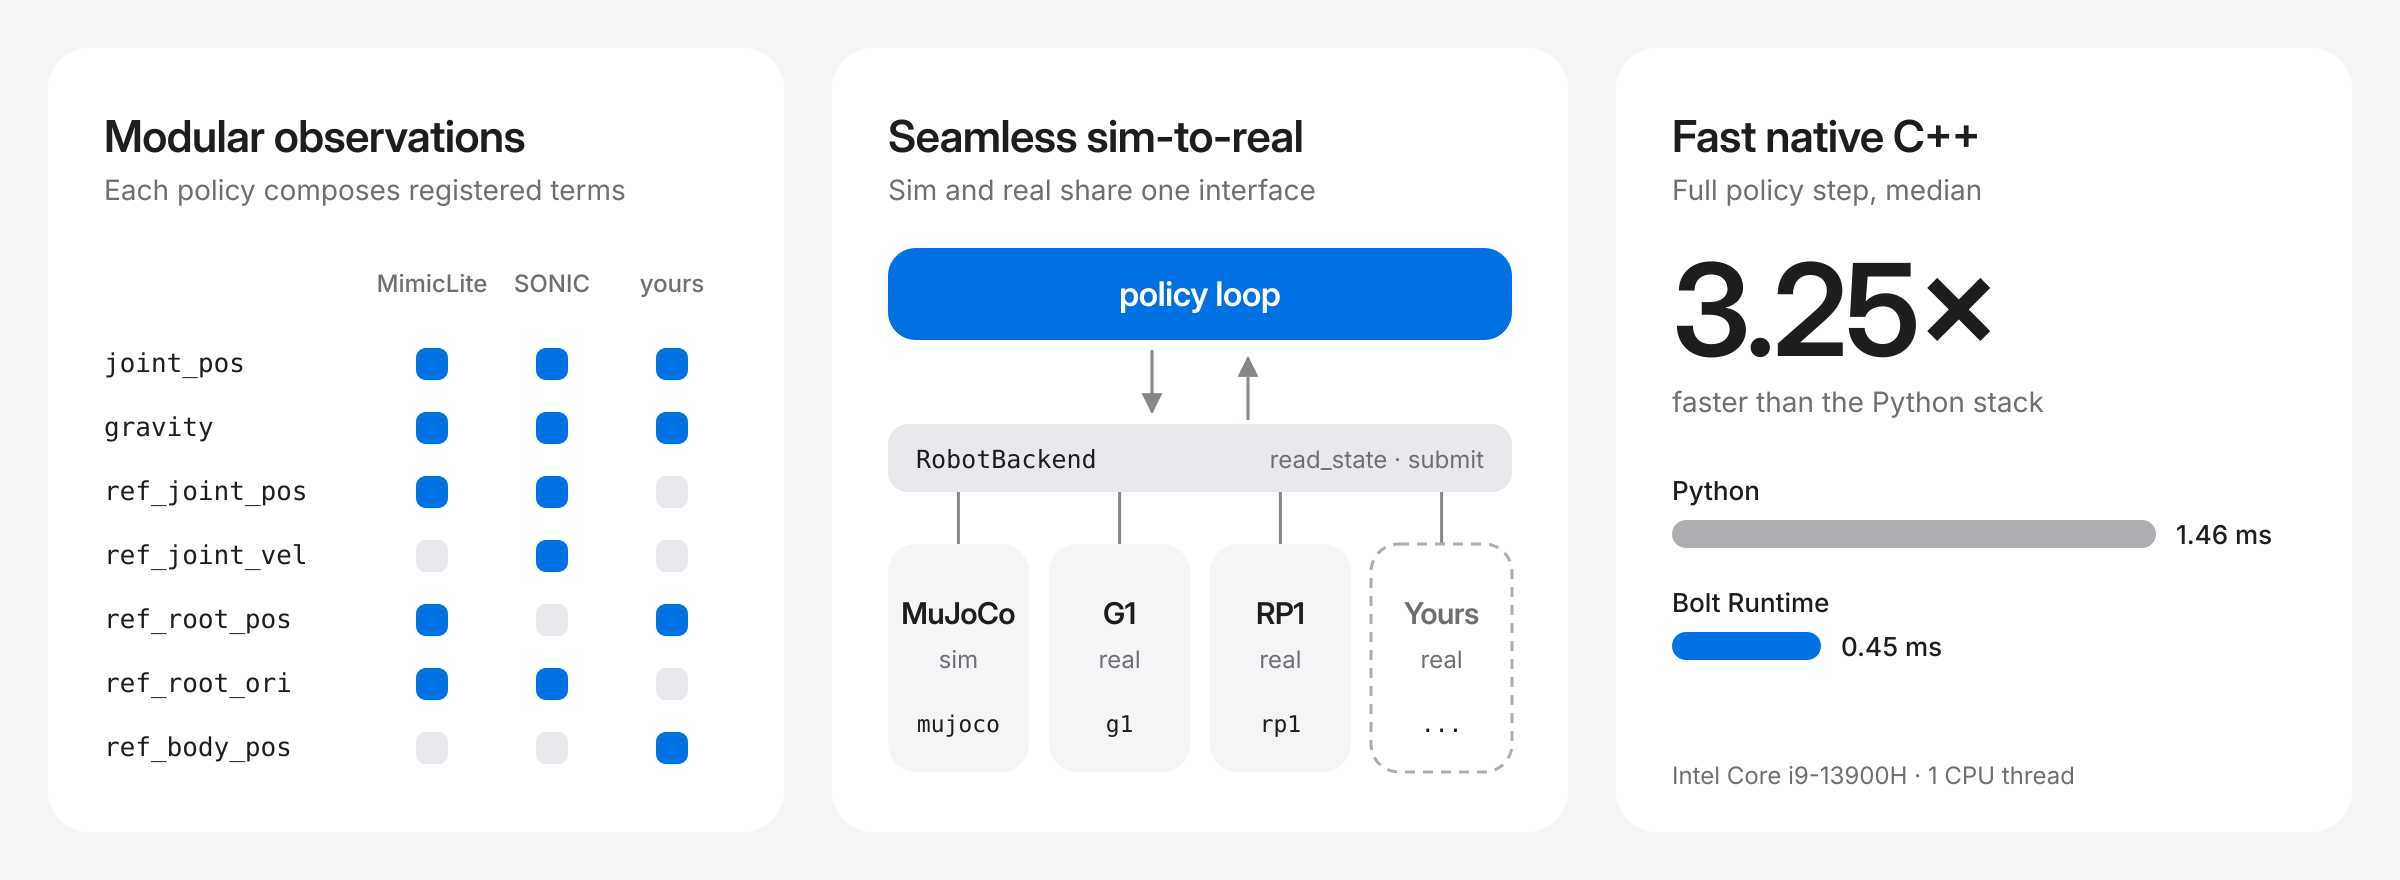
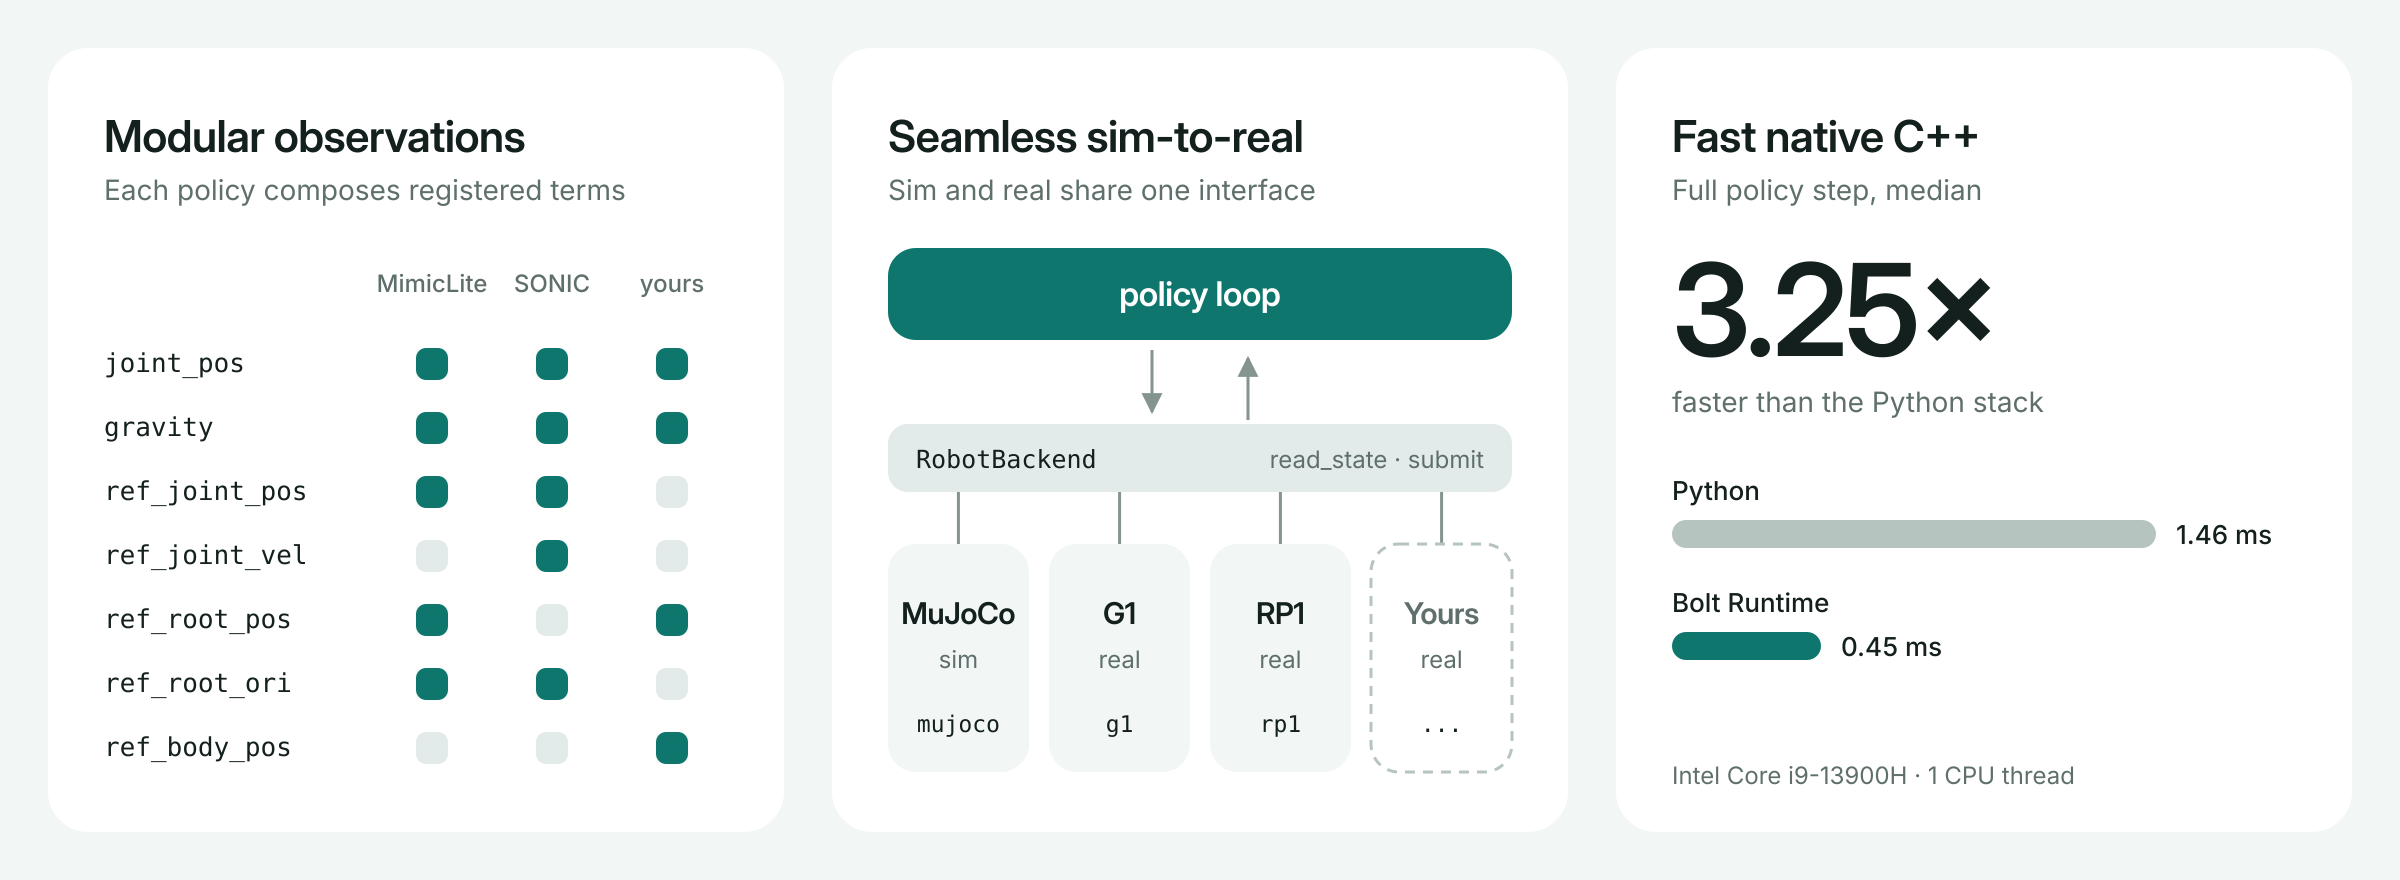
Restyle figures in teal and add an architecture diagram
1. Overview figure in the teal palette, with observation rows matching the shipped MimicLite and SONIC configs.
2. Architecture figure of PolicyLoop over the RobotBackend interface replaces the text diagram.
3. Render both figures from tools/render_overview.py.

diff --git a/tools/render_overview.py b/tools/render_overview.py
@@ -1,4 +1,4 @@
-"""Render the three-panel README overview: docs/media/overview.{svg,png}.
+"""Render docs figures: docs/media/overview.{svg,png} and docs/media/architecture.{svg,png}.
 
 Usage: python3 tools/render_overview.py   (PNG export needs Inkscape)
 Latency numbers are read from docs/reference/data/performance-results.json.
@@ -12,9 +12,10 @@ from pathlib import Path
 from xml.sax.saxutils import escape
 
 ROOT = Path(__file__).resolve().parents[1]
-BAND, CARD, FILL = "#f5f5f7", "#ffffff", "#e8e8ed"
-INK, INK2, ARROW, GREY = "#1d1d1f", "#6e6e73", "#86868b", "#aeaeb2"
-BLUE = "#0071e3"
+BAND, CARD, FILL = "#f2f6f5", "#ffffff", "#e2ebe9"
+INK, INK2, ARROW, GREY = "#13201e", "#5f6f6c", "#84948f", "#b6c4c0"
+ACCENT = "#0f766e"  # teal
+ACCENT_SOFT = "#dcefec"
 DISPLAY = "'Inter Display', 'Inter Tight', Inter, 'Helvetica Neue', Arial, sans-serif"
 TEXT = "Inter, 'Helvetica Neue', Arial, sans-serif"
 MONO = "'JetBrains Mono', 'DejaVu Sans Mono', monospace"
@@ -62,14 +63,14 @@ def modular():
         y = 172 + r * 32
         out.append(text(x + 28, y + 14, term, 13, INK, MONO))
         for (_, cx), u in zip(cols, used):
-            out.append(rect(x + cx - 8, y + 2, 16, 16, 5, BLUE if term in u else FILL))
+            out.append(rect(x + cx - 8, y + 2, 16, 16, 5, ACCENT if term in u else FILL))
     return out
 
 
 def backends():
     x, out = card(1, "Seamless sim-to-real", "Sim and real share one interface")
     left, right = x + 28, x + CW - 28
-    out.append(rect(left, 124, right - left, 46, 14, BLUE))
+    out.append(rect(left, 124, right - left, 46, 14, ACCENT))
     out.append(text(x + CW / 2, 153, "policy loop", 17, "#ffffff", DISPLAY, 600, "middle", -0.2))
     out.append(arrow(f"M{x + CW / 2 - 24:.1f} 175 L{x + CW / 2 - 24:.1f} 206"))
     out.append(arrow(f"M{x + CW / 2 + 24:.1f} 210 L{x + CW / 2 + 24:.1f} 179"))
@@ -101,7 +102,7 @@ def fast(results):
     out.append(text(x + 28, 178, f"{py / bolt:.2f}×", 64, INK, DISPLAY, 600, spacing=-1.5))
     out.append(text(x + 28, 206, "faster than the Python stack", 14, INK2))
     span = CW - 56 - 70
-    for k, (name, value, color) in enumerate([("Python", py, GREY), ("Bolt Runtime", bolt, BLUE)]):
+    for k, (name, value, color) in enumerate([("Python", py, GREY), ("Bolt Runtime", bolt, ACCENT)]):
         y = 250 + k * 56
         out.append(text(x + 28, y, name, 13, INK, TEXT, 500))
         w = span * value / py
@@ -111,22 +112,89 @@ def fast(results):
     return out
 
 
-def main():
-    results = json.loads((ROOT / "docs/reference/data/performance-results.json").read_text())
-    body = [rect(0, 0, W, H, 0, BAND)] + modular() + backends() + fast(results)
-    svg = (f'<svg xmlns="http://www.w3.org/2000/svg" width="{W}" height="{H}" viewBox="0 0 {W} {H}">\n'
+def node(x, y, w, h, title, lines, fill=BAND, dashed=False):
+    out = []
+    if dashed:
+        out.append(f'<rect x="{x:.1f}" y="{y:.1f}" width="{w:.1f}" height="{h:.1f}" rx="14" fill="none" '
+                   f'stroke="{GREY}" stroke-width="1.5" stroke-dasharray="5 4"/>')
+    else:
+        out.append(rect(x, y, w, h, 14, fill))
+    out.append(text(x + 18, y + 34, title, 16, INK, DISPLAY, 600, spacing=-0.2))
+    for k, line in enumerate(lines):
+        out.append(text(x + 18, y + 58 + k * 20, line, 12.5, INK2))
+    return out
+
+
+def architecture(width=1200, height=540):
+    out = [rect(0, 0, width, height, 0, BAND)]
+    left, right = 240, width - 40
+    # Row labels.
+    for y, label in [(80, "policy loop"), (326, "interface"), (446, "backends")]:
+        out.append(text(40, y, label, 12, INK2, TEXT, 500))
+    # Reference motion input (tracking task only).
+    out += node(40, 110, 170, 110, "Reference", ["file or ZMQ teleop", "--task tracking"], dashed=True)
+    # PolicyLoop card with its pipeline.
+    out.append(rect(left, 40, right - left, 214, 20, CARD))
+    out.append(text(left + 24, 78, "PolicyLoop", 20, INK, DISPLAY, 600, spacing=-0.3))
+    out.append(text(left + 148, 78, "one clock · hold / init / policy modes", 13, INK2))
+    stages = [("Observations", ["registered terms", "composed in YAML"]),
+              ("ONNX Runtime", ["CPU inference", "typed · recurrent · KV"]),
+              ("Action", ["scale · clip", "default pose"]),
+              ("Joint command", ["PD targets", "gains · feedforward"])]
+    gap, sw = 24, (right - left - 48 - 3 * 24) / 4
+    xs = [left + 24 + k * (sw + gap) for k in range(4)]
+    for k, (title, lines) in enumerate(stages):
+        out += node(xs[k], 110, sw, 120, title, lines, ACCENT_SOFT if k == 0 else BAND)
+        if k:
+            out.append(arrow(f"M{xs[k - 1] + sw + 3:.1f} 170 L{xs[k] - 3:.1f} 170"))
+    out.append(arrow(f"M212 165 L{xs[0] - 3:.1f} 165"))
+    # Interface bar and the two calls crossing it.
+    out.append(rect(left, 300, right - left, 40, 10, FILL))
+    out.append(text(left + 18, 325, "RobotBackend", 13, INK, MONO, 500))
+    out.append(text(right - 18, 325, "start · read_state · submit · stop", 12.5, INK2, TEXT, 400, "end"))
+    obs_c, cmd_c = xs[0] + sw / 2, xs[3] + sw / 2
+    out.append(arrow(f"M{obs_c:.1f} 297 L{obs_c:.1f} 236"))
+    out.append(text(obs_c + 10, 276, "read_state", 12, INK, MONO))
+    out.append(arrow(f"M{cmd_c:.1f} 234 L{cmd_c:.1f} 295"))
+    out.append(text(cmd_c + 10, 276, "submit", 12, INK, MONO))
+    # Equal backends.
+    tiles = [("MuJoCo", ["sim · physics thread", "native viewer"], "mujoco"),
+             ("Unitree G1", ["real · 500 Hz writer", "command watchdog"], "g1"),
+             ("RoboParty RP1", ["real · writer", "command watchdog"], "rp1"),
+             ("Replay", ["recorded states", "parity · timing"], "replay")]
+    tw = (right - left - 3 * 16) / 4
+    for k, (title, lines, flag) in enumerate(tiles):
+        tx = left + k * (tw + 16)
+        out.append(f'<path d="M{tx + tw / 2:.1f} 340 L{tx + tw / 2:.1f} 380" stroke="{ARROW}" stroke-width="1.5"/>')
+        out.append(rect(tx, 380, tw, 130, 14, CARD))
+        out.append(text(tx + 18, 414, title, 16, INK, DISPLAY, 600, spacing=-0.2))
+        for j, line in enumerate(lines):
+            out.append(text(tx + 18, 438 + j * 20, line, 12.5, INK2))
+        out.append(text(tx + 18, 494, f"--backend {flag}", 12, ACCENT, MONO, 500))
+    return out, width, height
+
+
+def write(name, body, width, height):
+    svg = (f'<svg xmlns="http://www.w3.org/2000/svg" width="{width}" height="{height}" '
+           f'viewBox="0 0 {width} {height}">\n'
            f'<defs><marker id="ah" viewBox="0 0 10 10" refX="9" refY="5" markerWidth="7" '
            f'markerHeight="7" orient="auto"><path d="M0 0L10 5L0 10z" fill="{ARROW}"/></marker></defs>\n'
            + "\n".join(body) + "\n</svg>\n")
-    out = ROOT / "docs/media/overview.svg"
+    out = ROOT / f"docs/media/{name}.svg"
     out.write_text(svg)
     if shutil.which("inkscape"):
         png = out.with_suffix(".png")
         subprocess.run(["inkscape", str(out), "--export-type=png", f"--export-filename={png}",
-                        f"--export-width={W * 2}"], check=True, capture_output=True)
+                        f"--export-width={width * 2}"], check=True, capture_output=True)
         print(png)
     else:
         print(f"{out} (install Inkscape to export PNG)")
+
+
+def main():
+    results = json.loads((ROOT / "docs/reference/data/performance-results.json").read_text())
+    write("overview", [rect(0, 0, W, H, 0, BAND)] + modular() + backends() + fast(results), W, H)
+    write("architecture", *architecture())
 
 
 if __name__ == "__main__":

diff --git a/docs/core/architecture.md b/docs/core/architecture.md
@@ -3,13 +3,7 @@
 Bolt Runtime is one process with one policy loop. Simulation and hardware differ
 only in the backend object the loop talks to.
 
-```text
-                 ┌──────────── PolicyLoop (policy clock, e.g. 50 Hz) ───────────┐
- robot state ──▶ │ observation graph ──▶ ONNX Runtime ──▶ action ──▶ PD command │ ──▶ backend
-      ▲          └───────────────────────────────────────────────────────────────┘       │
-      └──────────────────────────────── read_state / submit ──────────────────────────────┘
-                                                        mujoco · g1 · rp1 · replay
-```
+![Bolt Runtime architecture: PolicyLoop over the RobotBackend interface with MuJoCo, G1, RP1 and replay backends](../media/architecture.png)
 
 ## The policy loop
 
